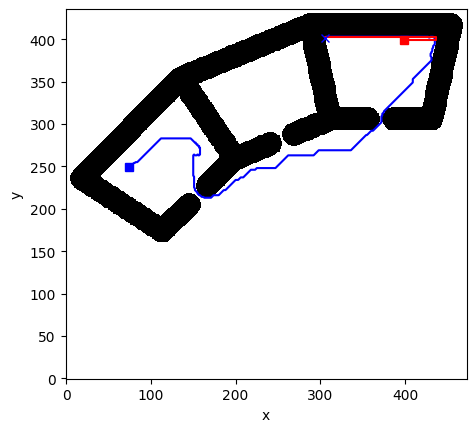
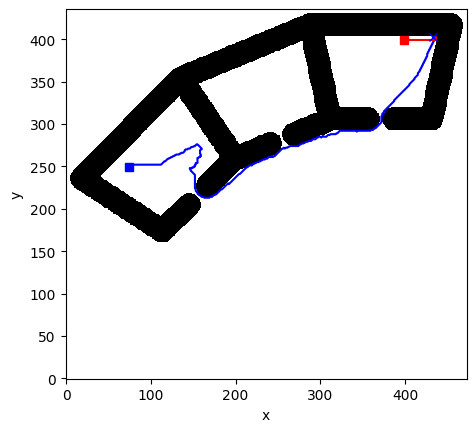
Anytime A* and Real Time Adaptive A* motion planning to cathc a moving target

diff --git a/robotplanner.py b/robotplanner.py
@@ -100,9 +100,6 @@ class Environment():
     return successor_nodes, costs, action_id
 
   def getHeuristic(self, node, target_pos):
-    # print(f'node : {node}')
-    # print(f"position : {self.graph[node]['pos']}")
-    # print(f'target pos : {target_pos}')
     pos = self.node.return_attribs(node // self.y_max, node % self.y_max)[node]['pos']
     return np.linalg.norm(pos - target_pos)
 
@@ -125,7 +122,7 @@ class RTAA():
   def plan(self):
     robot_id = self.robot_id
     self.open[robot_id] = graph[robot_id]['g'] + graph[robot_id]['h']
-    max_nodes = 1000
+    max_nodes = 500
     expanded = 0
     caught = False
     while expanded < max_nodes:
@@ -144,30 +141,35 @@ class RTAA():
 
           if graph[successors[i]]['g'] > graph[popped_id]['g'] + costs[i]:
             graph[successors[i]]['g'] = graph[popped_id]['g'] + costs[i]
+            self.parent.update({successors[i] : popped_id})
+
             if successors[i] in self.open:
-              # self.open[successors[i]] = graph[successors[i]]['g'] + self.env.getHeuristic(successors[i], self.target_pos)
-              self.open[successors[i]] = graph[successors[i]]['g'] + graph[successors[i]]['h']
+              self.open[successors[i]] = graph[successors[i]]['g'] + self.env.getHeuristic(successors[i], self.target_pos)
+              # self.open[successors[i]] = graph[successors[i]]['g'] + graph[successors[i]]['h']
               self.parent[successors[i]] = popped_id
             elif successors[i] not in self.open and successors[i] not in self.close:
-              # self.open.update({successors[i] : graph[successors[i]]['g'] + self.env.getHeuristic(successors[i], self.target_pos)})
-              self.open.update({successors[i] : graph[successors[i]]['g'] + graph[successors[i]]['h']})
-              self.parent.update({successors[i] : popped_id})
-        
+              self.open.update({successors[i] : graph[successors[i]]['g'] + self.env.getHeuristic(successors[i], self.target_pos)})
+              # self.open.update({successors[i] : graph[successors[i]]['g'] + graph[successors[i]]['h']})
       expanded = len(self.close)
+      if len(self.open) == 0:
+        break
 
 
     
     
+  
     for key in self.open:
       graph[key]['h'] = self.env.getHeuristic(key, self.target_pos)
-      self.open[key] = graph[key]['h']
-
+      self.open[key] = graph[key]['g'] + graph[key]['h']
+   
     if not caught:
       best_open_node, f_star = self.open.popitem()
     else:
       best_open_node, f_star = self.target_id, graph[self.target_id]['g'] + graph[self.target_id]['h'] 
-      for key in self.close:
-        graph[key]['h'] = f_star - graph[key]['g']
+    
+    for key in self.close:
+      graph[key]['h'] = f_star - graph[key]['g']
+    
     child = best_open_node
     par = 0
     while True:
@@ -182,7 +184,6 @@ class RTAA():
     
     self.next = (next_node // self.y_max, next_node % self.y_max)
     robotnextpos = graph[next_node]['pos']
-    print(f'robot next pos : {robotnextpos[0], robotnextpos[1]}')
     return robotnextpos
 
 
@@ -203,7 +204,7 @@ class AnytimeA_star():
     graph.update(self.node.return_attribs(*self.target_pos, ara = True))
     graph[self.robot_id]['g'] = 0
 
-    self.epsilon = 50
+    self.epsilon = 10
 
   def compute_path(self):
     incons = pqdict()
@@ -241,29 +242,21 @@ class AnytimeA_star():
         child = par
     t1 = time.time()
 
-    print(f'time taken to search for next node : {t1 - t2}')
-
-    # successors, costs, action = self.env.getSuccessors(self.robot_id)
-    # next_f = [graph[successors[i]]['g'] + graph[successors[i]]['h'] for i in range(len(successors))]
-
-    # next_node = successors[np.argmin(next_f)]
     next_node = child
     return incons, tuple(graph[next_node]['pos'])
 
   def plan(self):
     self.open[self.robot_id] = graph[self.robot_id]['g'] + self.epsilon * graph[self.robot_id]['h']
     t0 = time.time()
-    # print(f'starting time : {t0}')
     while self.epsilon >= 1:
       self.close = []
       self.incons = {}
       self.incons, path = self.compute_path()
       t1 = time.time()
-      if t1 - t0 >= 0.5:
-        print(f'The shortest path obtained is : {self.epsilon} epsilon sub-optimal')
+      if t1 - t0 >= 1:
         return path
       else:
-        self.epsilon -= 2
+        self.epsilon -= 0.5
         for key in self.incons.keys():
           self.open.additem(key, self.incons[key])
       if len(self.open) == 0:
@@ -271,12 +264,3 @@ class AnytimeA_star():
     
 
     return path
-
-
-
-
-
-
-
-
-

diff --git a/main.py b/main.py
@@ -62,6 +62,7 @@ def runtest(envmap, robotstart, targetstart, map):
 
     # newrobotpos = robotplanner(envmap, robotpos, targetpos, state_space)
     newrobotpos = planner.plan()
+    print(f'new robot pos : {newrobotpos}')
     robot_trajectory.append(newrobotpos)
     # compute move time for the target, if it is greater than 2 sec, the target will move multiple steps
     print(f'planning time was : {tic() - t0}')
@@ -241,7 +242,7 @@ def test_map3c():
 
 if __name__ == "__main__":
   # you should change the following line to test different maps
-  caught, numofmoves = test_map3c()
+  caught, numofmoves = test_map6()
   print('Number of moves made: {}; Target caught: {}.\n'.format(numofmoves, caught))
   plt.ioff()
   plt.show()
